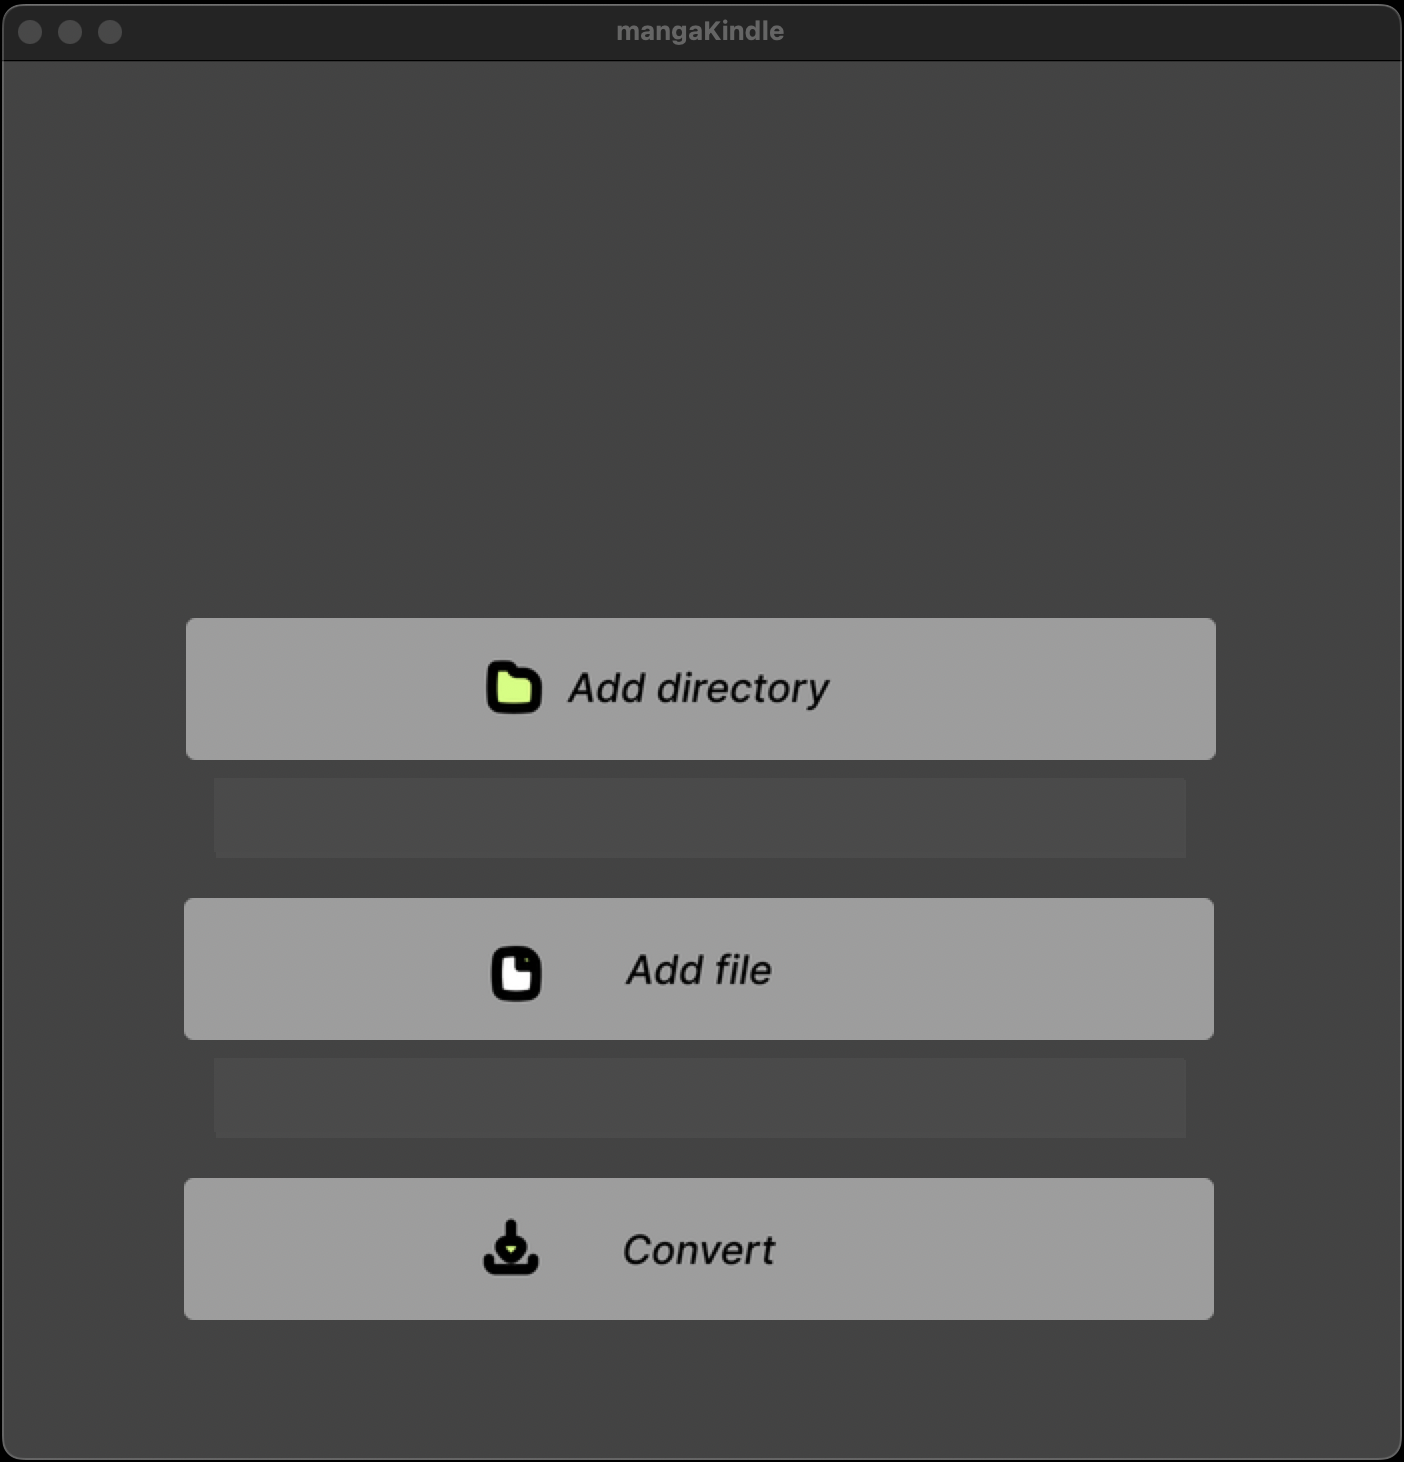
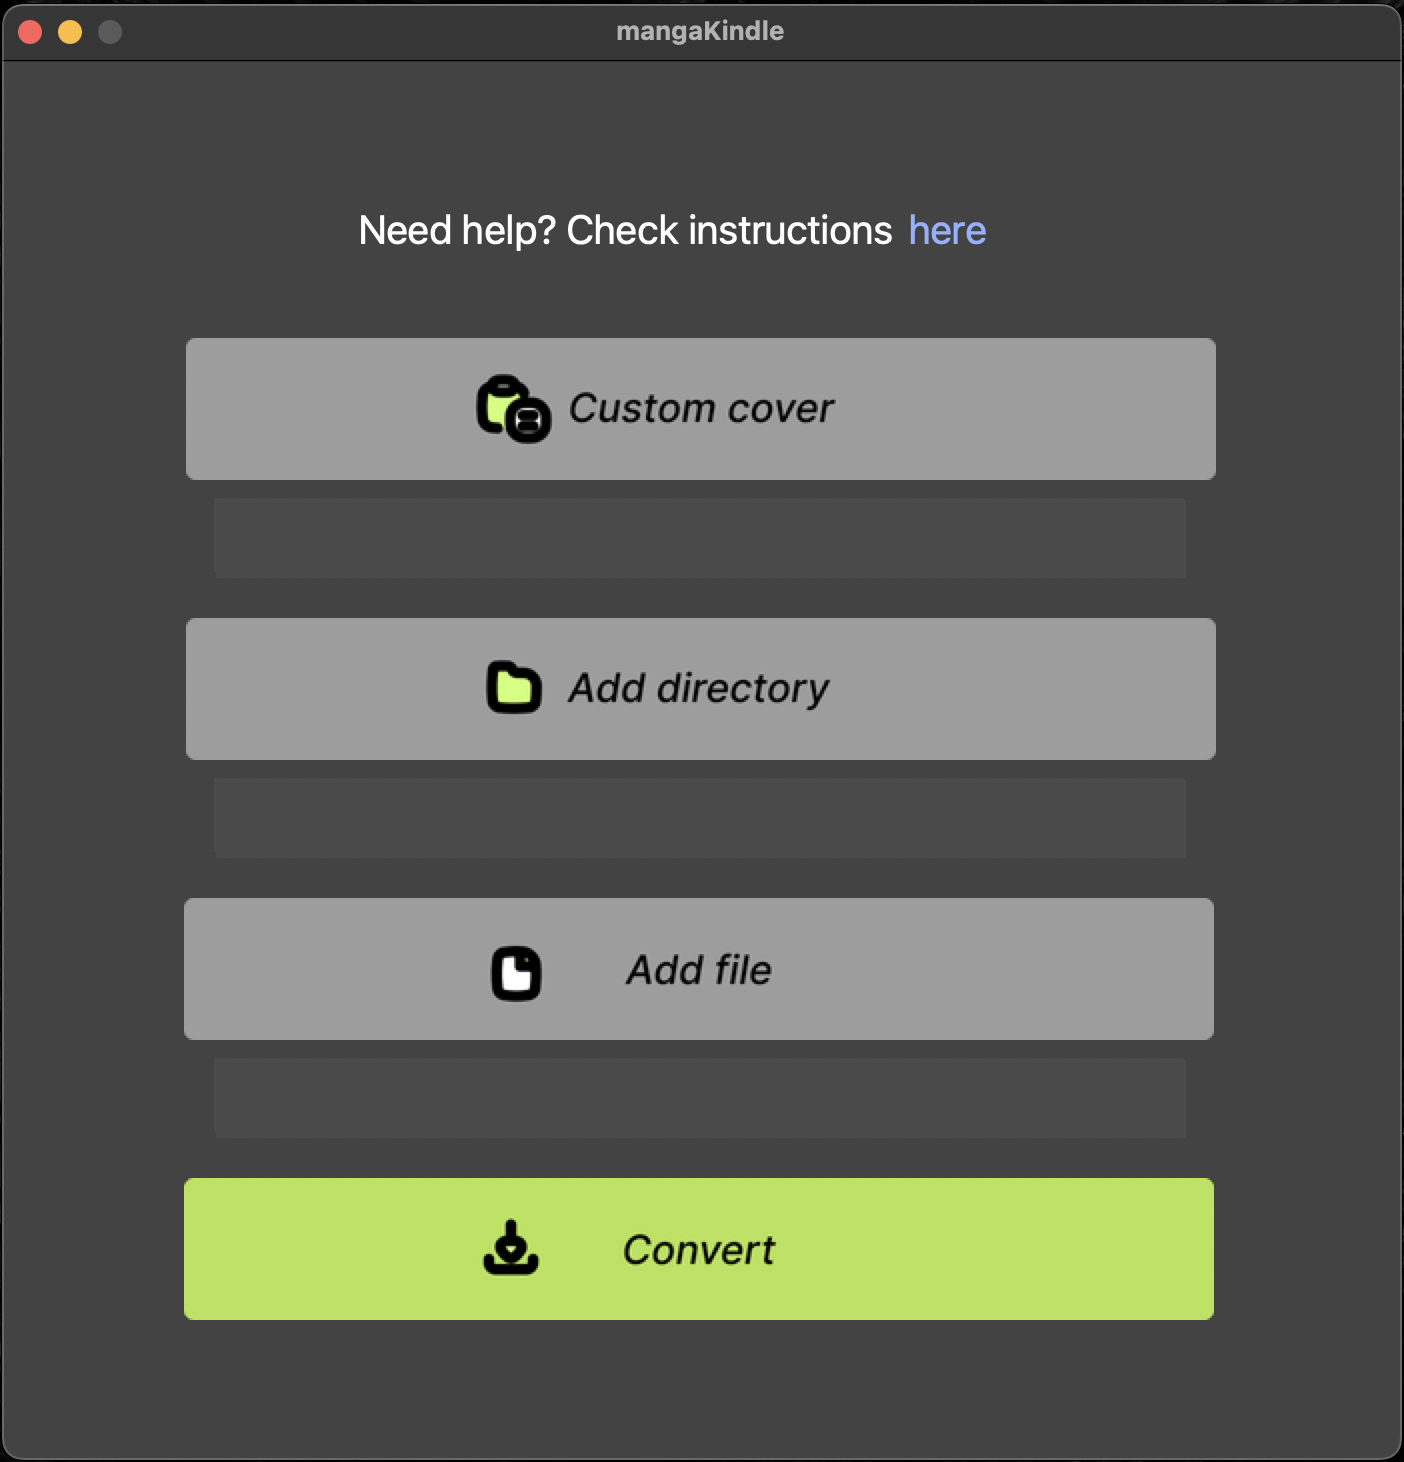
added clickable HERE text to redirect user to instructions.md file on github

diff --git a/src/manga_kindle/gui.py b/src/manga_kindle/gui.py
@@ -4,6 +4,7 @@ import tkinter as tk
 from tkinter import Canvas, Entry, Button, PhotoImage
 from tkinter.messagebox import showinfo
 
+
 class Gui(tk.Tk):
     def __init__(self):
         super().__init__()
@@ -12,6 +13,7 @@ class Gui(tk.Tk):
         
         self.window()
         self.background()
+        self.clickable_here()
         self.button_custom_cover()
         self.button_add_directory()
         self.button_add_file()
@@ -25,7 +27,8 @@ class Gui(tk.Tk):
         self.iconphoto(False, self.iconPhoto)
         
         self.configure(bg = "#FFFFFF")
-
+        self.resizable(False, False)
+       
     def background(self):
         self.canvas = Canvas(
             self,
@@ -45,7 +48,26 @@ class Gui(tk.Tk):
             700.0,
             fill="#434343",
             outline="")
+        
+        self.canvas.create_text(
+        178.0,
+        73.0,
+        anchor="nw",
+        text="Need help? Check instructions ",
+        fill="#FFFFFF",
+        font=("Inter MediumItalic", 20 * -1)
+        )
     
+    def clickable_here(self):
+        label = tk.Label(
+            text="here",
+            fg="#92B0FF",
+            font=("Inter MediumItalic", 20),
+            bg="#434343"         
+        )
+        label.place(x=450, y=69, anchor="nw")
+        label.bind('<Button-1>', self.gui_functionality.here_instructions_md)
+
     def button_custom_cover(self):
 
         self.button_image_0 = PhotoImage(
@@ -176,7 +198,6 @@ class Gui(tk.Tk):
             width=515.0,
             height=71.0
         )
-        self.resizable(False, False)
         self.mainloop()
     
     def convert(self, entry_custom_cover, entry_add_directory, entry_add_file):

diff --git a/src/manga_kindle/gui_functionality.py b/src/manga_kindle/gui_functionality.py
@@ -1,6 +1,7 @@
 from pathlib import Path
 from tkinter import filedialog
 import os
+import webbrowser
 
 
 class GuiFunctionality:
@@ -25,4 +26,8 @@ class GuiFunctionality:
         file_path = filedialog.askopenfilename()
         if file_path:
             file_name = os.path.basename(file_path)
-            return file_name        
+            return file_name
+    
+    def here_instructions_md(self, event):
+        instructions = ("https://github.com/8uziak/manga-kindle/blob/master/docs/instructions.md")
+        webbrowser.open_new_tab(instructions)

diff --git a/docs/instructions.md b/docs/instructions.md
@@ -87,7 +87,7 @@ Before using Tkinter Designer, you'll need to install Python.
 
 ## GUI - How does it work
 
-    1. Custom cover lets you add your cover of choice. It means it cant be whatever image (jpg/png) you want! 
+    1. Add custom cover lets you add your cover of choice. It means it cant be whatever image (jpg/png) you want! 
 
     2. Add directory: you can click a 'Add directory' button or write it yourself below the button. It's going to be a directory from which the program will take all your CBZ files and turn it to a one CBZ file. 
     NOTE: all input CBZ files need to be sortable, because an app sorts every file in directory and then it renames files inside these CBZ files one by one. I
